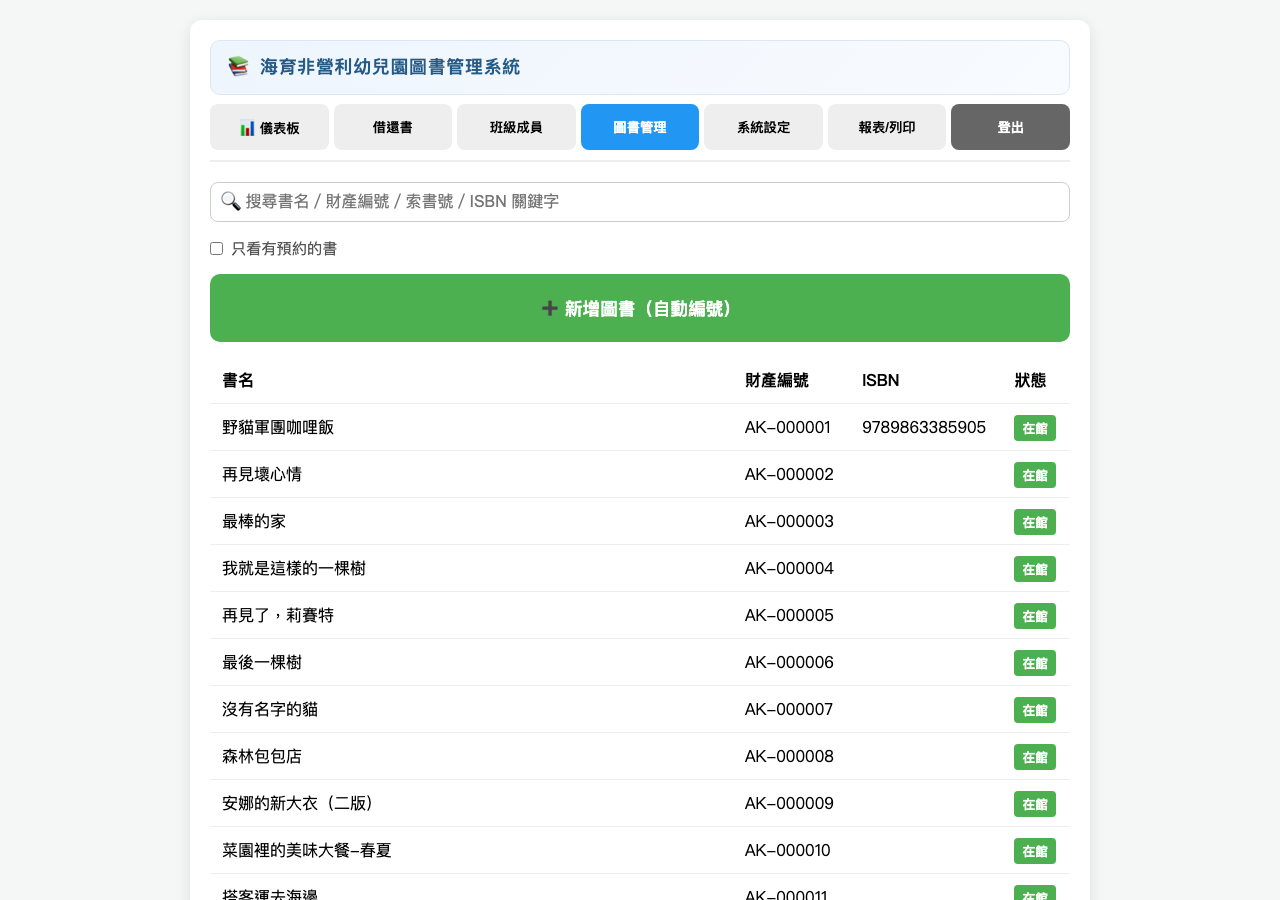
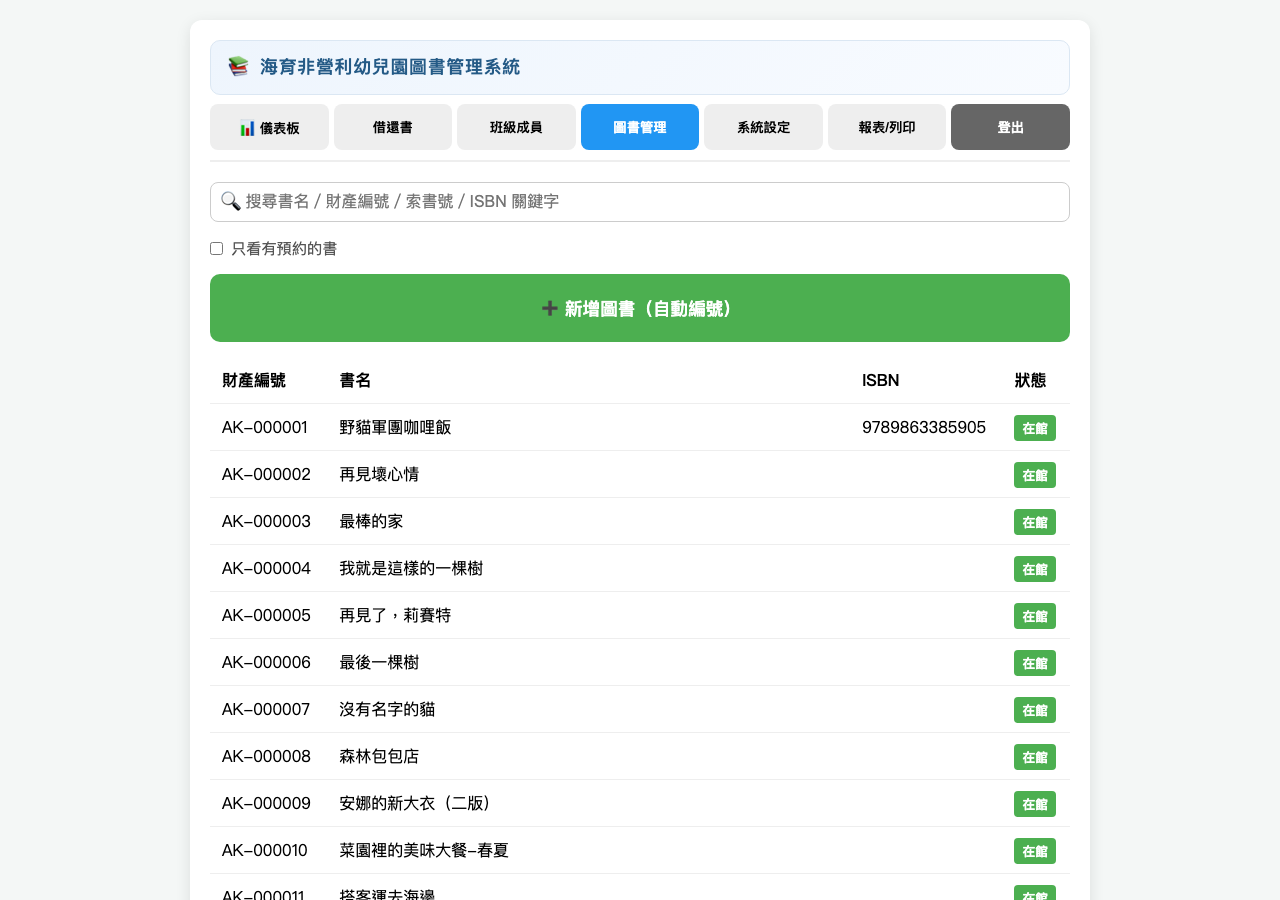
style: 圖書管理列表欄位順序改為財產編號、書名

diff --git a/index.html b/index.html
@@ -416,7 +416,7 @@
         </div>
         <div class="table-container">
             <table id="bookTable">
-                <thead><tr><th>書名</th><th>財產編號</th><th>ISBN</th><th>狀態</th></tr></thead>
+                <thead><tr><th>財產編號</th><th>書名</th><th>ISBN</th><th>狀態</th></tr></thead>
                 <tbody id="bookManageResults"></tbody>
             </table>
         </div>
@@ -3510,8 +3510,8 @@
         tbody.innerHTML = barcodes.map(barcode => {
             const b = bookDatabase[barcode];
             return `<tr data-act="viewBook" data-id="${barcode}" style="cursor:pointer;">
-            <td>${escapeHtml(b.title)}</td>
             <td>${escapeHtml(b.assetId)}</td>
+            <td>${escapeHtml(b.title)}</td>
             <td>${escapeHtml(b.isbn || '')}</td>
             <td>${bookStatusCell(b)}</td>
         </tr>`;
